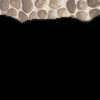
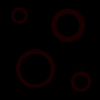
Finished darkness generation

Changed region(s): [[0.0, 0.0, 1.0, 0.42], [0.15, 0.48, 0.57, 0.9], [0.69, 0.72, 0.93, 0.93]]

diff --git a/js/generator.js b/js/generator.js
@@ -5,6 +5,7 @@ var TilesEnum = {
     WALL: "WALL",
     DOOR: "DOOR",
     DARK: "DARK",
+    DARKW: "DARKW",
     DARKC: "DARKC"
 };
 function idCanvas(n, m) {
@@ -36,13 +37,12 @@ function TileTdProto(x, y, tiletype, texture, next) {
     this.texture = texture;
     this.next = next;
 }
-function TileRoomProto(x, y, tiletype, texture, tileorientation) {
+function TileRoomProto(x, y, tiletype, texture) {
     "use strict";
     this.x = x;
     this.y = y;
     this.tiletype = tiletype;
     this.texture = texture;
-    this.tileorientation = tileorientation;
 }
 function loadTiles(imgscalex, imgscaley) {
     "use strict";
@@ -87,6 +87,10 @@ function loadTiles(imgscalex, imgscaley) {
     tree3texture.scaleX = imgscalex;
     tree3texture.scaleY = imgscaley;
     textures.push(tree3texture);
+    var darkwtexture = new createjs.Bitmap("res/darkness_w.jpg");
+    darkwtexture.scaleX = imgscalex;
+    darkwtexture.scaleY = imgscaley;
+    textures.push(darkwtexture);
     return textures;
 }
 function checkUpLeft(tiles, overx, overy) {
@@ -110,15 +114,16 @@ function checkDownLeft(tiles, overx, overy) {
 function generateTdLevel(n, m, stage, textures, xsize, ysize) {
     "use strict";
     var floortexture = textures[0];
+    var pathtexture = textures[1];
     var tiles = getTilesArray(n, m);
     var i, j, temp;
     for (i = 0; i < n; i += 1) {
         for (j = 0; j < m; j += 1) {
-            tiles[i][j] = new TileTdProto(i * xsize, j * ysize, TilesEnum.BASIC, floortexture.clone(), "");
+            tiles[i][j] = new TileTdProto(i, j, TilesEnum.BASIC, floortexture.clone(), "");
             //console.log("Adding tile[" + i + "][" + j + "] with coords " + tiles[i][j].x + ":" + tiles[i][j].y);
             temp = tiles[i][j].texture;
-            temp.x = tiles[i][j].x;
-            temp.y = tiles[i][j].y;
+            temp.x = tiles[i][j].x * xsize;
+            temp.y = tiles[i][j].y * ysize;
             stage.addChild(temp);
         }
     }
@@ -131,10 +136,10 @@ function generateTdLevel(n, m, stage, textures, xsize, ysize) {
     var overY = randomtile;
     var path;
     //draw first tile
-    tiles[overX][overY] = new TileTdProto(overX * xsize, overY * ysize, TilesEnum.PATH, textures[1].clone(), "");
+    tiles[overX][overY] = new TileTdProto(overX, overY, TilesEnum.PATH, pathtexture.clone(), "");
     path = tiles[overX][overY].texture;
-    path.x = overX * xsize;
-    path.y = overY * ysize;
+    path.x = tiles[overX][overY].x * xsize;
+    path.y = tiles[overX][overY].y * ysize;
     overlaytiles.push(path);
 
     //TODO get from html
@@ -213,8 +218,8 @@ function generateTdLevel(n, m, stage, textures, xsize, ysize) {
         tiles[overX][overY].tiletype = TilesEnum.PATH;
         //TODO get texture rotation according to direction
         path = textures[1].clone();
-        path.x = overX * xsize;
-        path.y = overY * ysize;
+        path.x = tiles[overX][overY].x * xsize;
+        path.y = tiles[overX][overY].y * ysize;
         overlaytiles.push(path);
         if (overX === n - 1) {
             generatePath = false;
@@ -228,10 +233,10 @@ function generateTdLevel(n, m, stage, textures, xsize, ysize) {
         for (j = 0; j < m; j += 1) {
             if (tiles[i][j].tiletype !== TilesEnum.PATH) {
                 if (randomIntFromInterval(1, 100) < etcTileChance) {
-                    tiles[i][j] = new TileTdProto(i * xsize, j * ysize, TilesEnum.ETC, textures[randomIntFromInterval(7, 9)].clone(), "");
+                    tiles[i][j] = new TileTdProto(i, j, TilesEnum.ETC, textures[randomIntFromInterval(7, 9)].clone(), "");
                     etcTile = tiles[i][j].texture;
-                    etcTile.x = i * xsize;
-                    etcTile.y = j * ysize;
+                    etcTile.x = tiles[i][j].x * xsize;
+                    etcTile.y = tiles[i][j].y * ysize;
                     overlaytiles.push(etcTile);
                 }
             }
@@ -252,6 +257,8 @@ function generateBoILevel(n, m, stage, textures, xsize, ysize) {
     var walltexture = textures[3];
     var doortexture = textures[6];
     var darktexture = textures[4];
+    var darkctexture = textures[5];
+    var darkwtexture = textures[10];
     var doorn = $("input[name='doorn']:checked").val();
     var doore = $("input[name='doore']:checked").val();
     var doors = $("input[name='doors']:checked").val();
@@ -276,25 +283,25 @@ function generateBoILevel(n, m, stage, textures, xsize, ysize) {
             }
             switch (tiletype) {
                 case 0:
-                    tiles[i][j] = new TileRoomProto(i * xsize, j * ysize, TilesEnum.BASIC, floortexture.clone(), "");
+                    tiles[i][j] = new TileRoomProto(i, j, TilesEnum.BASIC, floortexture.clone());
                     break;
                 case 1:
-                    tiles[i][j] = new TileRoomProto(i * xsize, j * ysize, TilesEnum.DOOR, doortexture.clone(), "");
+                    tiles[i][j] = new TileRoomProto(i, j, TilesEnum.DOOR, doortexture.clone());
                     break;
                 case 2:
-                    tiles[i][j] = new TileRoomProto(i * xsize, j * ysize, TilesEnum.WALL, walltexture.clone(), "");
+                    tiles[i][j] = new TileRoomProto(i, j, TilesEnum.WALL, walltexture.clone());
                     break;
             }
             temp = tiles[i][j].texture;
-            temp.x = tiles[i][j].x;
-            temp.y = tiles[i][j].y;
+            temp.x = tiles[i][j].x * xsize;
+            temp.y = tiles[i][j].y * ysize;
             stage.addChild(temp);
         }
     }
     var generateObstructions = true; //TODO get from html
     var obstructionsPerc = 10;//TODO get from html
     var obstructionsCount = Math.floor((n * m) / obstructionsPerc);
-    var testtilex, testtiley;
+    var testtilex, testtiley, temptexture, temptype;
     var sidesize;
     var maxtriescount = 0;
     do {
@@ -306,7 +313,8 @@ function generateBoILevel(n, m, stage, textures, xsize, ysize) {
         }
 
         //TODO >1 type of obstructions and random picker - random rocks, horiz or vert lines of rocks/wall
-        //darkness, at least 3x3
+
+        //START OF DARKNESS GENERATION
         if (n > 7 && m > 7) {//Ensure we have some space
             testtilex = randomIntFromInterval(2, n - 6);//m - 6 = 0-based, the wall, at least one space from the wall, at least 3 spaces for the darkness
             testtiley = randomIntFromInterval(2, m - 6);//n - 6 = 0-based, the wall, at least one space from the wall, at least 3 spaces for the darkness
@@ -315,18 +323,62 @@ function generateBoILevel(n, m, stage, textures, xsize, ysize) {
                 console.log("Generating darkness on " + testtilex + ":" + testtiley + " (spooky!)");
                 for (i = 0; i < sidesize; i += 1) {
                     for (j = 0; j < sidesize; j += 1) {
-                        tiles[testtilex + i][testtiley + j] = new TileRoomProto((testtilex + i) * xsize, (testtiley + j) * ysize, TilesEnum.DARK, darktexture.clone(), "");
+                        if (i === 0 && j === 0) {
+                            temptype = TilesEnum.DARKC;
+                            temptexture = darkctexture.clone();
+                        } else if (i === sidesize - 1 && j === 0) {
+                            temptype = TilesEnum.DARKC;
+                            temptexture = darkctexture.clone();
+                            temptexture.regX = 0;
+                            temptexture.regY = temptexture.image.height;
+                            temptexture.rotation = 90;
+                        } else if (i === 0 && j === sidesize - 1) {
+                            temptype = TilesEnum.DARKC;
+                            temptexture = darkctexture.clone();
+                            temptexture.regX = temptexture.image.width;
+                            temptexture.regY = 0;
+                            temptexture.rotation = 270;
+                        } else if (i === sidesize - 1 && j === sidesize - 1) {
+                            temptype = TilesEnum.DARKC;
+                            temptexture = darkctexture.clone();
+                            temptexture.regX = temptexture.image.width;
+                            temptexture.regY = temptexture.image.height;
+                            temptexture.rotation = 180;
+                        } else if (i === 0) {
+                            temptype = TilesEnum.DARKW;
+                            temptexture = darkwtexture.clone();
+                            temptexture.regX = temptexture.image.width;
+                            temptexture.regY = 0;
+                            temptexture.rotation = 270;
+                        } else if (j === 0) {
+                            temptype = TilesEnum.DARKW;
+                            temptexture = darkwtexture.clone();
+                        } else if (j === sidesize - 1) {
+                            temptype = TilesEnum.DARKW;
+                            temptexture = darkwtexture.clone();
+                            temptexture.regX = temptexture.image.width;
+                            temptexture.regY = temptexture.image.height;
+                            temptexture.rotation = 180;
+                        } else if (i === sidesize - 1) {
+                            temptype = TilesEnum.DARKW;
+                            temptexture = darkwtexture.clone();
+                            temptexture.regX = 0;
+                            temptexture.regY = temptexture.image.height;
+                            temptexture.rotation = 90;
+                        } else {
+                            temptype = TilesEnum.DARK;
+                            temptexture = darktexture.clone();
+                        }
+                        tiles[testtilex + i][testtiley + j] = new TileRoomProto(testtilex + i, testtiley + j, temptype, temptexture);
                         temp = tiles[testtilex + i][testtiley + j].texture;
-                        temp.x = tiles[testtilex + i][testtiley + j].x;
-                        temp.y = tiles[testtilex + i][testtiley + j].y;
+                        temp.x = tiles[testtilex + i][testtiley + j].x * xsize;
+                        temp.y = tiles[testtilex + i][testtiley + j].y * ysize;
                         stage.addChild(temp);
                     }
                 }
-
-
-
                 generateObstructions = false;
             } //retry if out of bounds
+            //END OF DARKNESS GENERATION
         } else {//Quit if we're not generating
             generateObstructions = false;
         }
@@ -392,6 +444,7 @@ function generateLevel(which) {
      * 7 - tree1
      * 8 - tree2
      * 9 - tree3
+     * 10 - darkness wall
      * @type {Array}
      */
     var textures = loadTiles(imgscalex, imgscaley);

diff --git a/generator.html b/generator.html
@@ -58,7 +58,7 @@
         <input type="submit" id="orsubmit" value="Generate" onclick="generateLevel(2)">
     </div>
 </div>
-<div id="canvasDiv">
+<div class="canvasDiv" id="canvasDiv">
     <canvas id="genCanvas"></canvas>
 </div>
 <script type="application/javascript">

diff --git a/css/general.css b/css/general.css
@@ -40,7 +40,5 @@ input[type='radio'] {
 }
 
 .canvasDiv {
-    width: 80%;
-    max-width: 80%;
-    min-width: 80%;
+    width: 1500px;
 }
